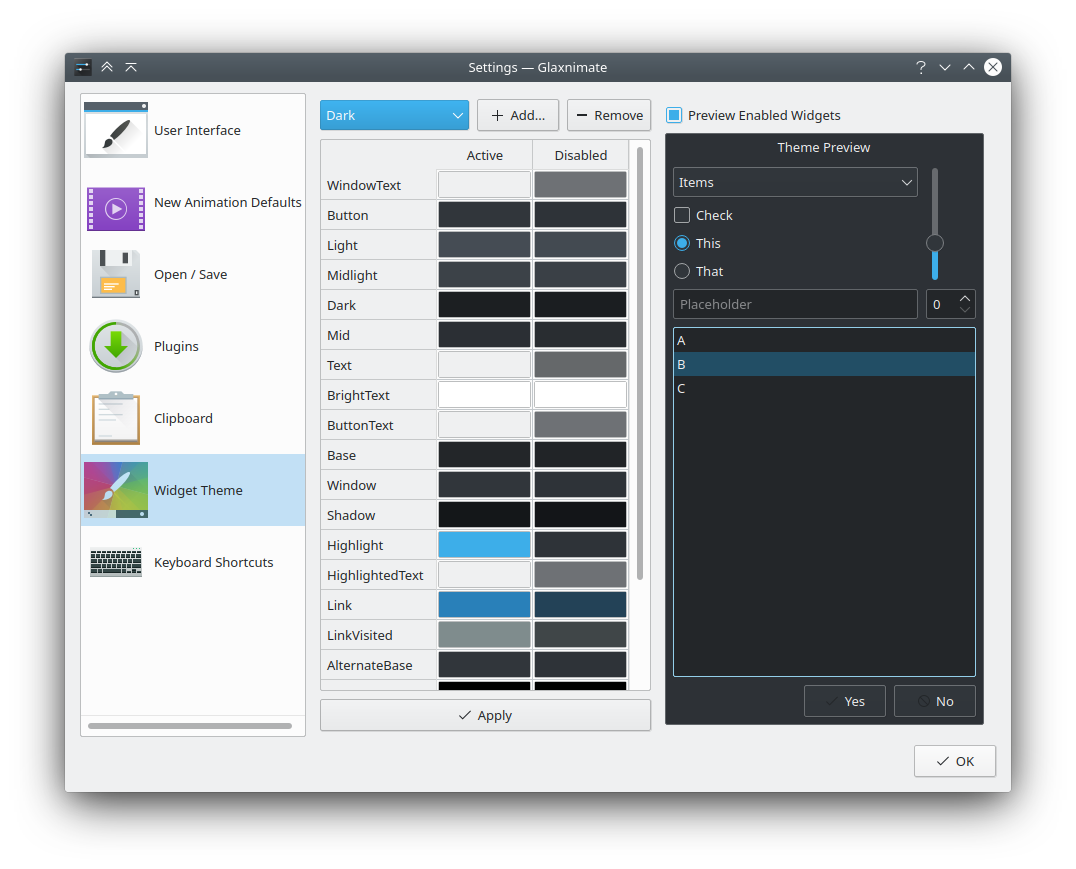
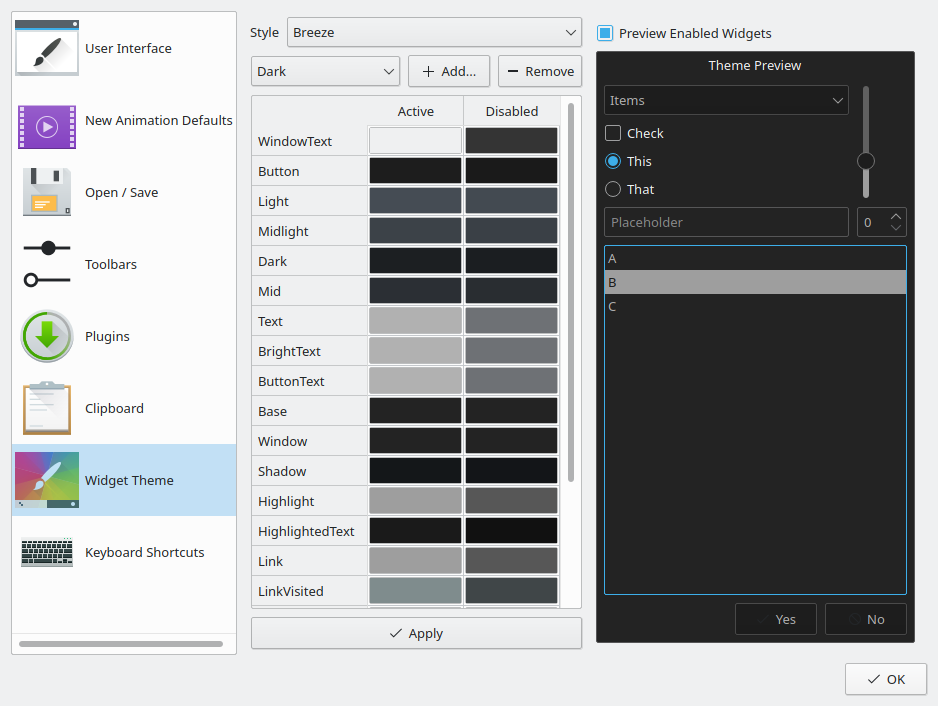
Update docs for the UI changes

diff --git a/src/gui/widgets/settings/toolbar_settings_widget.cpp b/src/gui/widgets/settings/toolbar_settings_widget.cpp
@@ -8,6 +8,18 @@ class ToolbarSettingsWidget::Private
 {
 public:
     Ui::ToolbarSettingsWidget ui;
+
+    void update_preview(QWidget* parent)
+    {
+        for ( auto button : parent->findChildren<QToolButton*>() )
+        {
+            button->setToolButtonStyle(settings::ToolbarSettingsGroup::button_style);
+            if ( button->objectName().contains("tool") )
+                button->setIconSize(settings::ToolbarSettingsGroup::tool_icon_size());
+            else
+                button->setIconSize(settings::ToolbarSettingsGroup::icon_size());
+        }
+    }
 };
 
 ToolbarSettingsWidget::ToolbarSettingsWidget(QWidget* parent)
@@ -17,6 +29,7 @@ ToolbarSettingsWidget::ToolbarSettingsWidget(QWidget* parent)
     d->ui.combo_style->setCurrentIndex(int(settings::ToolbarSettingsGroup::button_style));
     d->ui.spin_icon_size->setValue(settings::ToolbarSettingsGroup::icon_size_extent);
     d->ui.spin_tool_icon_size->setValue(settings::ToolbarSettingsGroup::tool_icon_size_extent);
+    d->update_preview(this);
 }
 
 ToolbarSettingsWidget::~ToolbarSettingsWidget() = default;
@@ -37,13 +50,5 @@ void ToolbarSettingsWidget::update_preview()
     settings::ToolbarSettingsGroup::tool_icon_size_extent = d->ui.spin_tool_icon_size->value();
     settings::ToolbarSettingsGroup::button_style = Qt::ToolButtonStyle(d->ui.combo_style->currentIndex());
     settings::ToolbarSettingsGroup::apply();
-
-    for ( auto button : findChildren<QToolButton*>() )
-    {
-        button->setToolButtonStyle(settings::ToolbarSettingsGroup::button_style);
-        if ( button->objectName().contains("tool") )
-            button->setIconSize(settings::ToolbarSettingsGroup::tool_icon_size());
-        else
-            button->setIconSize(settings::ToolbarSettingsGroup::icon_size());
-    }
+    d->update_preview(this);
 }

diff --git a/src/gui/gui_python.cpp b/src/gui/gui_python.cpp
@@ -12,5 +12,7 @@ PYBIND11_EMBEDDED_MODULE(glaxnimate_gui, m)
         .def("create_dialog", &GlaxnimateWindow::create_dialog)
         .def_property_readonly("cleaned_selection", &GlaxnimateWindow::cleaned_selection, py::return_value_policy::automatic_reference)
         .def_property_readonly("select", &GlaxnimateWindow::select, py::return_value_policy::automatic_reference)
+        .def_property("size", &GlaxnimateWindow::size, qOverload<const QSize&>(&GlaxnimateWindow::resize))
+        .def("resize", qOverload<int, int>(&GlaxnimateWindow::resize))
     ;
 }

diff --git a/docs/docs/manual/ui/docks.md b/docs/docs/manual/ui/docks.md
@@ -157,11 +157,30 @@ The frame spin box shows the current frame, and allows jumping to a specific fra
 <img src="/img/ui/icons/go-last.svg" width="32"> Jumps to the last frame<br/>
 <img src="/img/ui/icons/media-record.svg" width="32"> Record keyframes. When enabled, all changes made on the canvas are added as keyframes.<br/>
 
-### Property List
+### Composition Tabs
+
+![Composition Tabs](/img/screenshots/views/timeline/composition_tabs.png)
+
+If you have multiple compositions in the current document, they are shown in a tab bar
+above the property list and timeline.
+
+Clicking on the tabs will switch to a different composition.
+
+### Property and Object List
 
 ![Property List](/img/screenshots/views/timeline/property_list.png)
 
-On its left handside, the the Timeline view has the list of properties: showing their name, current value, and animation status.
+On its left handside, the the Timeline view has the list of objects and properties.
+
+For shapes and other obects, it shows their group color, visibility, lock status, and name.
+All of those can be modified from the timeline itself.
+
+Additionally, top-level layers can also have a parent, which is also shown and edited from the timeline.
+
+Nested inside each object, you can see their children and properties.
+
+Properties show their name, current value, and animation status.
+
 
 The animation statuses are as follow:
 

diff --git a/docs/docs/manual/ui/settings.md b/docs/docs/manual/ui/settings.md
@@ -25,6 +25,12 @@ This select the defaults for when you create a new file.
 * Max Recent Files: How many items to show in the *File* > *Open Recent* menu.
 * Backup Frequency: Number of minutes between automatic backup saves. Set to 0 to diable.
 
+## Toolbars
+
+![settings dialog](/img/screenshots/dialogs/settings/toolbars.png)
+
+Allows the user to change the toolbar appearance.
+
 ## Plugins
 
 ![settings dialog](/img/screenshots/dialogs/settings/plugins.png)
